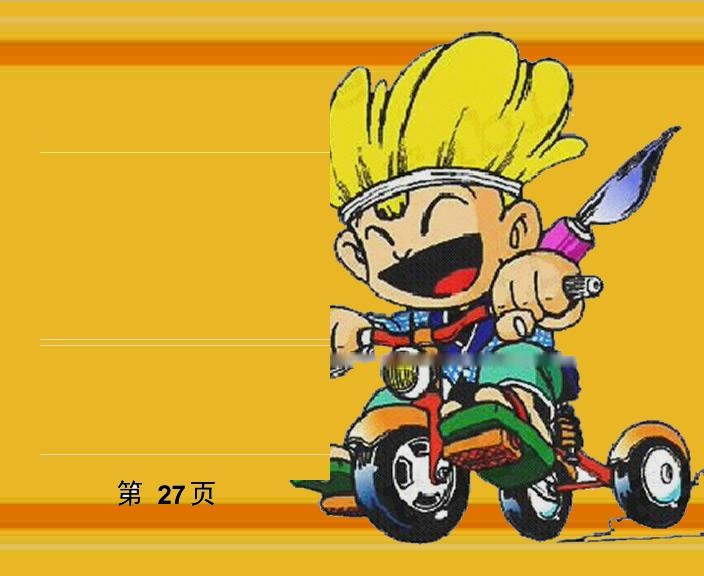
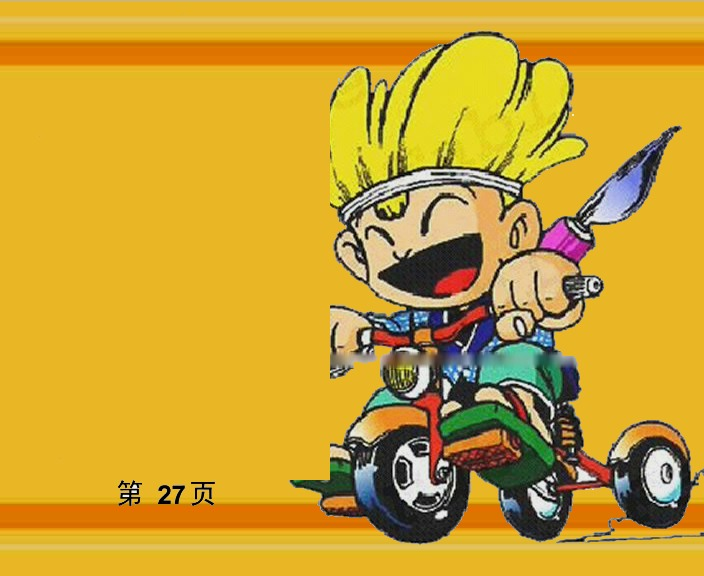
fix: preserve side border patterns when cleaning menu backdrops
The text box now starts inside the left border (x=68), so the star frame on pages 5/10/15/20/25/30 is no longer erased. The interior is filled from the clean page-1 yellow strip instead of tiling the border or using a flat median colour. All 30 menu JPEGs were regenerated.

Changed region(s): [[0.0625, 0.5625, 0.4688, 0.625], [0.0625, 0.7812, 0.4688, 0.8125]]

diff --git a/tools/prepare_menu_pages.py b/tools/prepare_menu_pages.py
@@ -19,8 +19,8 @@ except ImportError:  # pragma: no cover
     print("需要 Pillow：pip install -r requirements-dev.txt")
     raise SystemExit(2)
 
-# 只处理标题和 10 行正文；底部「第 N 页」和花纹保留
-TEXT_BOX = (40, 90, 330, 480)
+# 只处理标题和 10 行正文；底部「第 N 页」和左右花纹边框保留
+TEXT_BOX = (68, 90, 330, 480)
 TEXT_LEVEL = 160          # 三通道都低于此值视为文字笔画
 DILATE = 2                # 覆盖抗锯齿边缘
 
@@ -30,19 +30,22 @@ def _is_text(px, x, y):
     return r < TEXT_LEVEL and g < TEXT_LEVEL and b < TEXT_LEVEL
 
 
-def strip_text(im):
+def strip_text(im, pattern=None):
     w, h = im.size
     px = im.load()
     x0, y0, x1, y1 = TEXT_BOX
     x1, y1 = min(x1, w), min(y1, h)
 
-    # 按整行（含文字区全宽）取中位数，避免只采样左侧窄条造成色块边界；
-    # 白底页会得到纯白，黄底页会得到该行的黄色，水印也一并覆盖。
+    # 用第 1 页左侧的纯背景条平铺，保留细微的黄色纹理，
+    # 又不会把第 5 页的星形边框带进文字区。
     for y in range(y0, y1):
-        vals = sorted(px[x, y] for x in range(x0, x1))
-        col = vals[len(vals) // 2]
+        if pattern is not None:
+            strip = [pattern.getpixel((x, y)) for x in range(2, 38)]
+        else:
+            strip = [px[x, y] for x in range(2, 38)]
+        n = len(strip)
         for x in range(x0, x1):
-            px[x, y] = col
+            px[x, y] = strip[(x - x0) % n]
     return im
 
 
@@ -97,9 +100,10 @@ def main(argv=None):
         if not os.path.exists(p):
             print("缺少", p)
             return 1
-        im = strip_text(Image.open(p).convert("RGB"))
+        im = Image.open(p).convert("RGB")
         if i > 1:
             im = recolor_white_to_yellow(im, base)
+        im = strip_text(im, base)
         im.save(os.path.join(args.out, "%02d.png" % i))
         n += 1
     print("处理 %d 页 -> %s" % (n, args.out))
